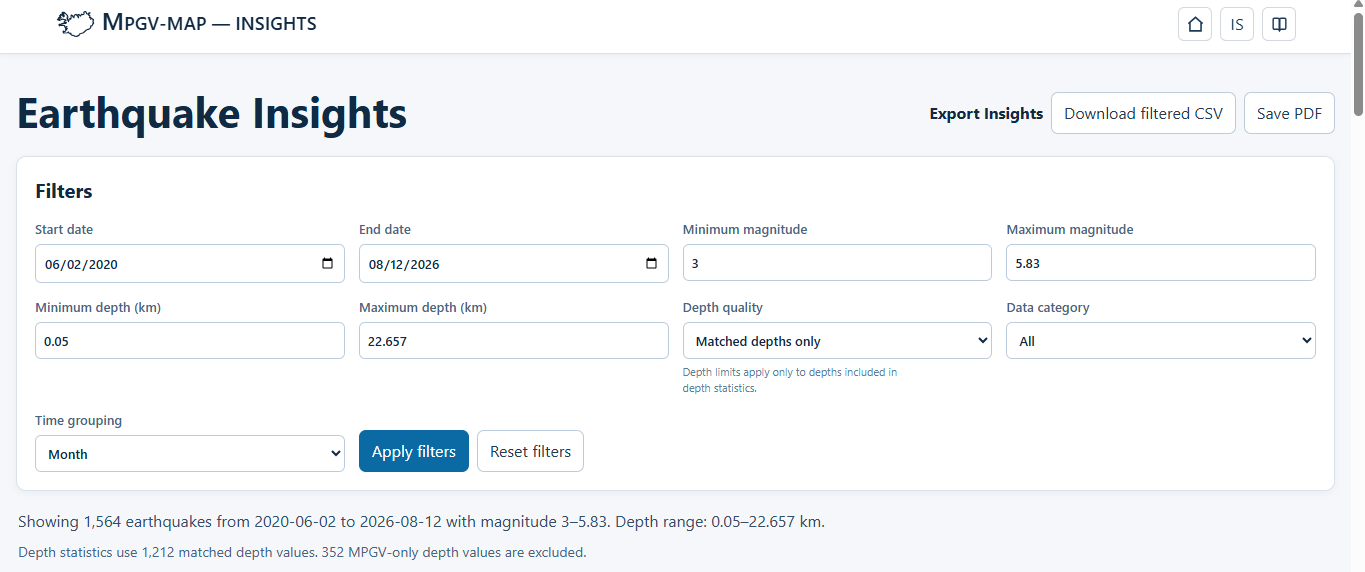
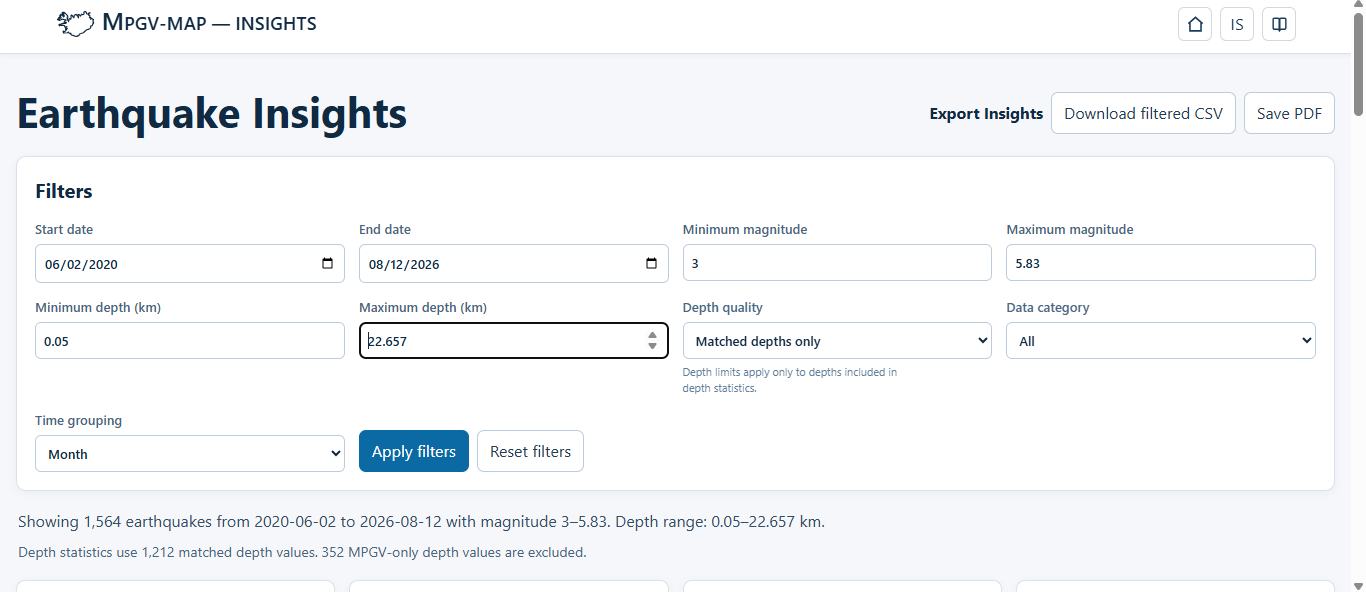
Updates from Overleaf

diff --git a/MPGV Monitor.tex b/MPGV Monitor.tex
@@ -769,14 +769,14 @@ Figures~\ref{fig:mpgv-source-interface} and~\ref{fig:quakes-api-interface} recor
 \clearpage
 \begin{figure}[p]
 \centering
-\makebox[\textwidth][c]{\includegraphics[width=1.08\textwidth]{Updated Screenshots/data-source-mpgv-archive-table.png}}
+\makebox[\textwidth][c]{\includegraphics[width=1.08\textwidth]{Updated Screenshots/hraun vedur mpgv data.png}}
 \caption{MPGV archive table used by the HTML acquisition path. The source presents event measurements and related archive columns in a wide tabular interface. This capture documents the external interface appearance on 12~August~2026; the parser retains only the fields and rows described in Section~\ref{subsubsec:mpgv-acquisition}.}
 \label{fig:mpgv-source-interface}
 \end{figure}
 
 \begin{figure}[p]
 \centering
-\makebox[\textwidth][c]{\includegraphics[width=1.08\textwidth]{Updated Screenshots/data-source-imo-quakes-api.png}}
+\makebox[\textwidth][c]{\includegraphics[width=1.08\textwidth]{Updated Screenshots/Quakes API.png}}
 \caption{IMO Quakes API documentation used by the machine-readable acquisition path. The interface exposes the event collection and event-identifier operations; MPGV Monitor uses the collection route and applies the request, normalisation, and persistence rules described in Section~\ref{subsubsec:quakes-api-acquisition}. The capture was made on 12~August~2026.}
 \label{fig:quakes-api-interface}
 \end{figure}
@@ -1235,17 +1235,18 @@ The national faults-and-fissures view is shown first in Figure~\ref{fig:frontend
 \clearpage
 \begin{figure}[p]
 \centering
+\makebox[\textwidth][c]{\includegraphics[width=1.08\textwidth]{Updated Screenshots/frontend-map-overview.png}}
+\caption{Current Map route at national scale in its base state. The full-width view shows the application identity, map-type selector, earthquake distribution, timeline and magnitude controls, overlay toggles, and map action rail before an individual event is selected.}
+\label{fig:frontend-map-current}
+\end{figure}
+
+\begin{figure}[p]
+\centering
 \makebox[\textwidth][c]{\includegraphics[width=1.08\textwidth]{Updated Screenshots/frontend-map-faults-overlay.png}}
 \caption{Current national Map view with the EGDI/HIKE faults and fissures overlay enabled. The enlarged view shows the structural linework, its legend, earthquake distribution, and the active magnitude encoding at the same scale used for the base Map view.}
 \label{fig:frontend-faults-overlay}
 \end{figure}
 
-\begin{figure}[p]
-\centering
-\makebox[\textwidth][c]{\includegraphics[width=1.08\textwidth]{Updated Screenshots/frontend-map-overview.png}}
-\caption{Current Map route at national scale in its base state. The full-width view shows the application identity, map-type selector, earthquake distribution, timeline and magnitude controls, overlay toggles, and map action rail before an individual event is selected.}
-\label{fig:frontend-map-current}
-\end{figure}
 
 \begin{figure}[p]
 \centering
@@ -1257,10 +1258,11 @@ The national faults-and-fissures view is shown first in Figure~\ref{fig:frontend
 
 \begin{figure}[p]
 \centering
-\includegraphics[height=0.72\textheight]{Updated Screenshots/frontend-map-controls.png}
+\includegraphics[height=0.5\textheight]{Updated Screenshots/frontend-map-controls.png}
 \caption{Detail of the current left-side Map controls. The enlarged view shows the colour-mode selector, overlay switches, timeline and magnitude controls, active date range, and vertical map action rail.}
 \label{fig:frontend-map-controls}
 \end{figure}
+\newpage
 
 \begin{figure}[p]
 \centering
@@ -1309,16 +1311,27 @@ Figure~\ref{fig:frontend-insights-current} shows the current Insights route at t
 
 \begin{figure}[H]
 \centering
+
 \textbf{(a) Filters and catalogue summary}\par
-\includegraphics[width=0.94\linewidth]{Updated Screenshots/frontend-insights-filters.png}
+\makebox[\linewidth][c]{%
+  \includegraphics[width=1.10\linewidth]
+    {Updated Screenshots/frontend-insights-filters.png}%
+}
+
 \vspace{0.35em}
 
 \textbf{(b) Analytical charts}\par
-\includegraphics[width=0.94\linewidth]{Updated Screenshots/frontend-insights-charts.png}
-\caption{Current Insights route: applied date, magnitude, depth, source-quality, and grouping controls with the catalogue and depth-quality summaries (a), and four of the five implemented chart panels visible in the captured viewport (b). The category-over-time chart and result tables continue below the capture.}
+\makebox[\linewidth][c]{%
+  \includegraphics[width=1.10\linewidth]
+    {Updated Screenshots/frontend-insights-charts.png}%
+}
+
+\caption{Current Insights route: applied date, magnitude, depth, source-quality,
+and grouping controls with the catalogue and depth-quality summaries (a), and
+four of the five implemented chart panels visible in the captured viewport (b).
+The category-over-time chart and result tables continue below the capture.}
 \label{fig:frontend-insights-current}
 \end{figure}
-
 \subsection{Responsive and Accessibility Implementation}
 \label{subsec:frontend_responsive_accessibility}
 
